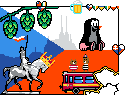
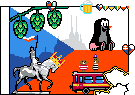
Border update

diff --git a/index.html b/index.html
@@ -27,7 +27,7 @@
         const Y_GRID_PIXELS = 12
 
         // Top Left corner, including
-        const X_IMG_POSITION = 1197;
+        const X_IMG_POSITION = 1197 - 9;
         const Y_IMG_POSITION = 161 - 6;
 
         const X_OFFSET = 0
